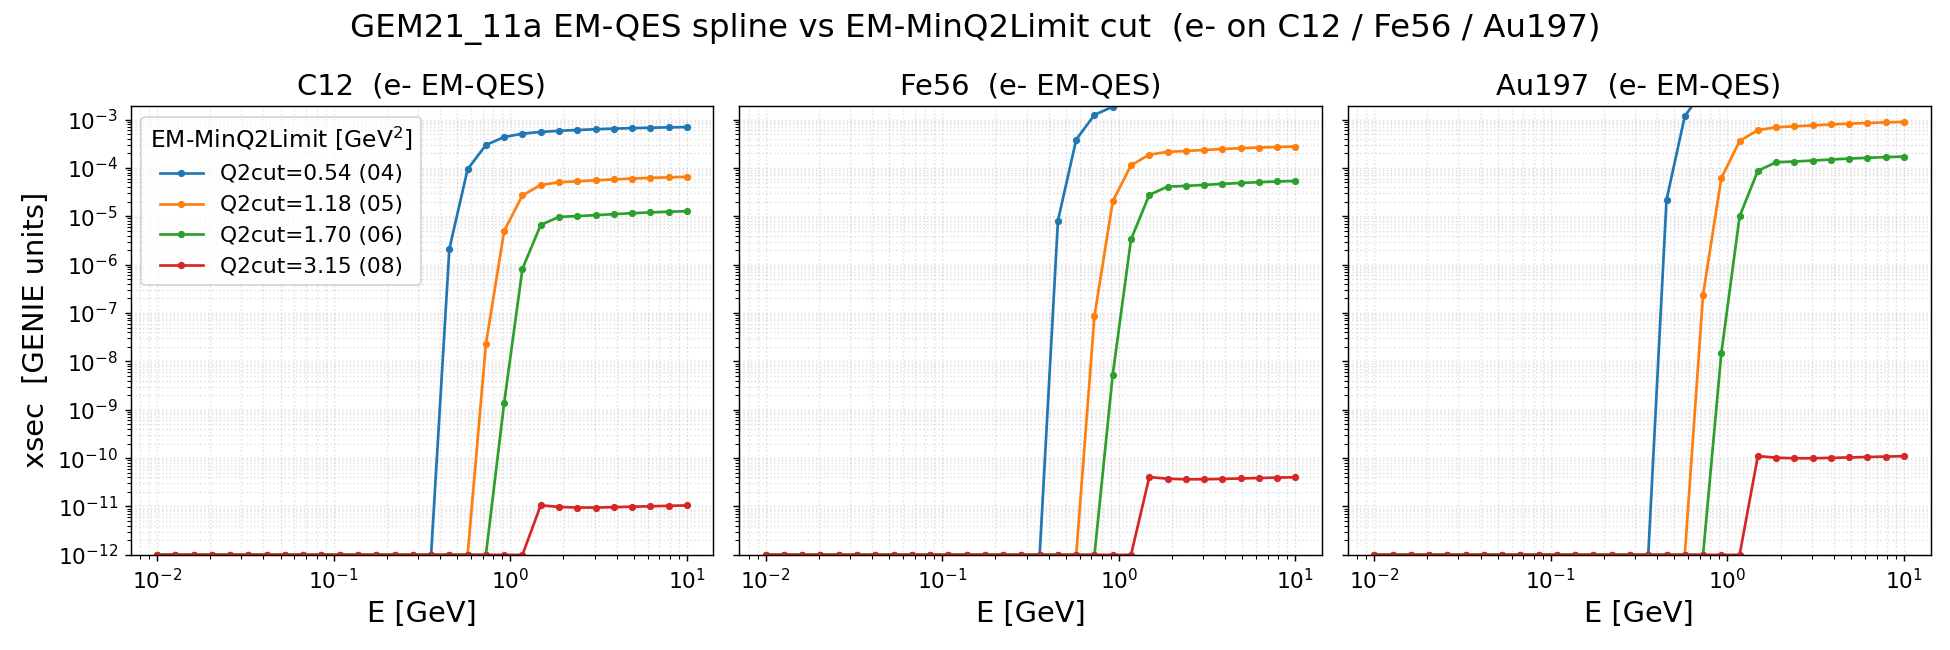
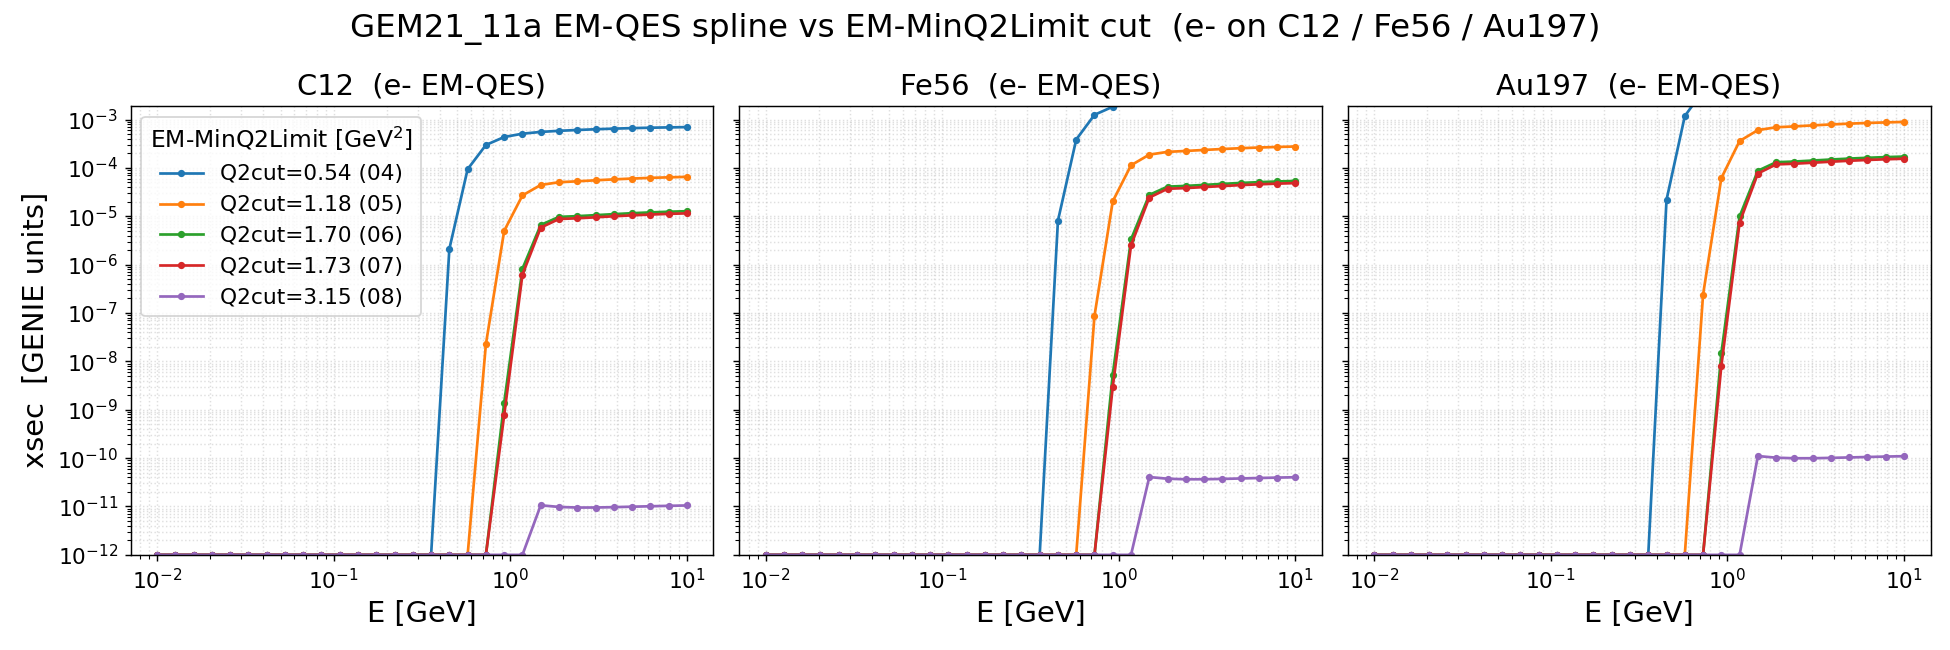
results: add tune 07 (Q2=1.73) to EM-QES spline figure
All 5 GEM21_11a tunes (04/05/06/07/08) now done on the grid; include the
1.73 GeV2 cut (overlaps 1.70). Update README table and figure.

diff --git a/results/template/make_spline_q2cut.py b/results/template/make_spline_q2cut.py
@@ -14,7 +14,8 @@ from plot_style import (apply_style, new_panels, style_axis, COLORS, FLOOR,
 
 # Spline XMLs pulled from the grid (one per tune). Adjust the glob/dir as needed.
 SRC = os.environ.get("SPL_DIR", "/tmp/spl_cmp")
-q2 = {"04_000": 0.54, "05_000": 1.18, "06_000": 1.70, "08_000": 3.15}
+q2 = {"04_000": 0.54, "05_000": 1.18, "06_000": 1.70, "07_000": 1.73,
+      "08_000": 3.15}
 tgt_name = {"1000060120": "C12", "1000260560": "Fe56", "1000791970": "Au197"}
 order = ["1000060120", "1000260560", "1000791970"]
 

diff --git a/results/README.md b/results/README.md
@@ -13,12 +13,11 @@ that differ only in the `EM-MinQ2Limit` (minimum-Q2) parameter.
 | GEM21_11a_04_000 | 0.54 |
 | GEM21_11a_05_000 | 1.18 |
 | GEM21_11a_06_000 | 1.70 |
+| GEM21_11a_07_000 | 1.73 |
 | GEM21_11a_08_000 | 3.15 |
 
 Raising the Q2 floor strips low-Q2 phase space: the cross-section turn-on shifts
 to higher energy and the plateau drops by roughly an order of magnitude per step.
 The 3.15 GeV² tune sits on the plot's 1e-12 floor (effectively no surviving
-EM-QES). Curves are clamped at 1e-12 so the log axis renders zeros.
-
-Tune `GEM21_11a_07_000` (Q2 = 1.73 GeV²) is not yet included — its grid job was
-still running when this figure was made.
+EM-QES). Curves are clamped at 1e-12 so the log axis renders zeros. The 1.70 and
+1.73 GeV² curves nearly overlap (0.03 GeV² apart).
